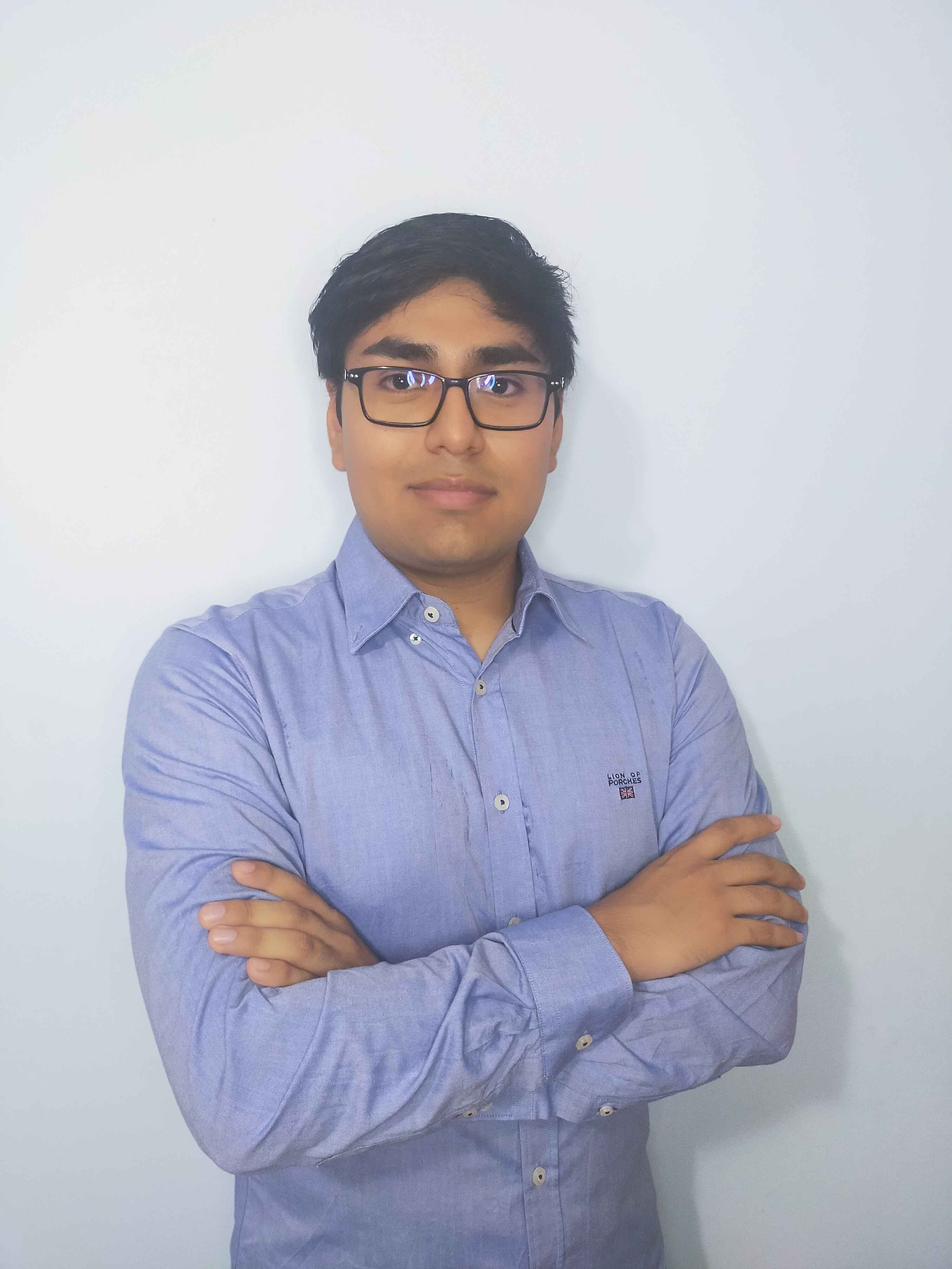
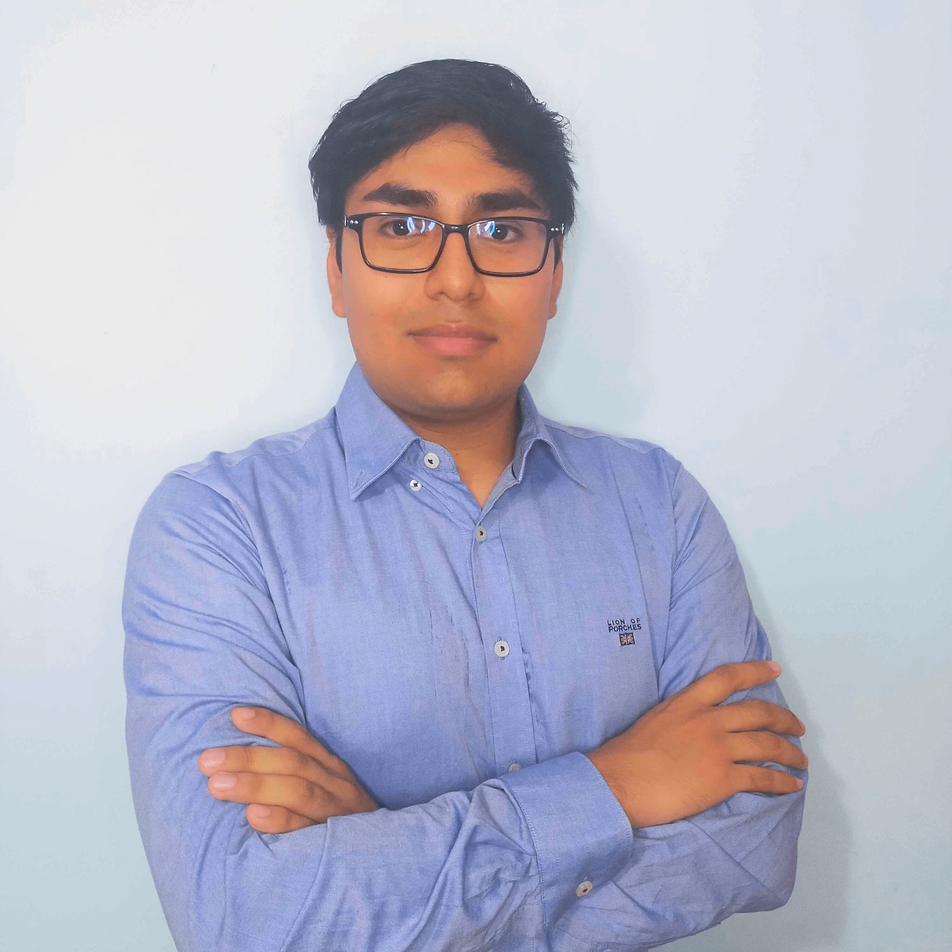
PORTFOLIO 1.10.1
Fix DavidGomez.png

Changed region(s): [[0.124, 0.062, 0.899, 1.0], [0.899, 0.992, 1.0, 1.0]]

diff --git a/README.md b/README.md
@@ -10,7 +10,7 @@
 
 - **STACK :**
 
-  - **Portfolio** : `1.10.0`
+  - **Portfolio** : `1.10.1`
   - **Swiper** : `11.1.14`
   - **React** : `18.3.1`
   - **React Dom** : `18.3.1`
